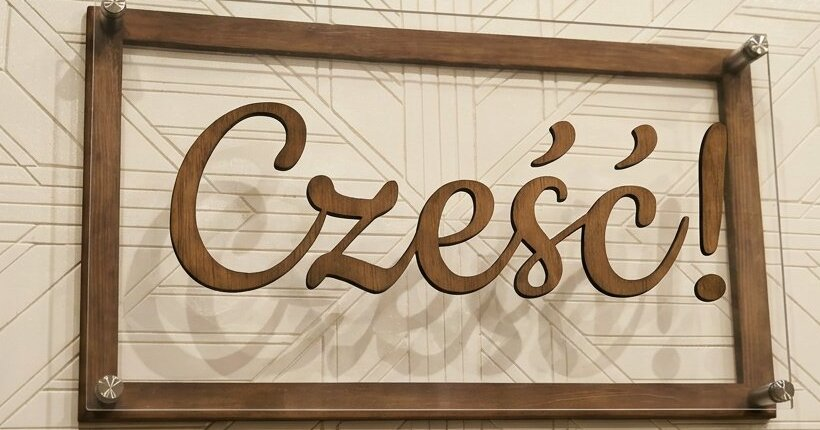
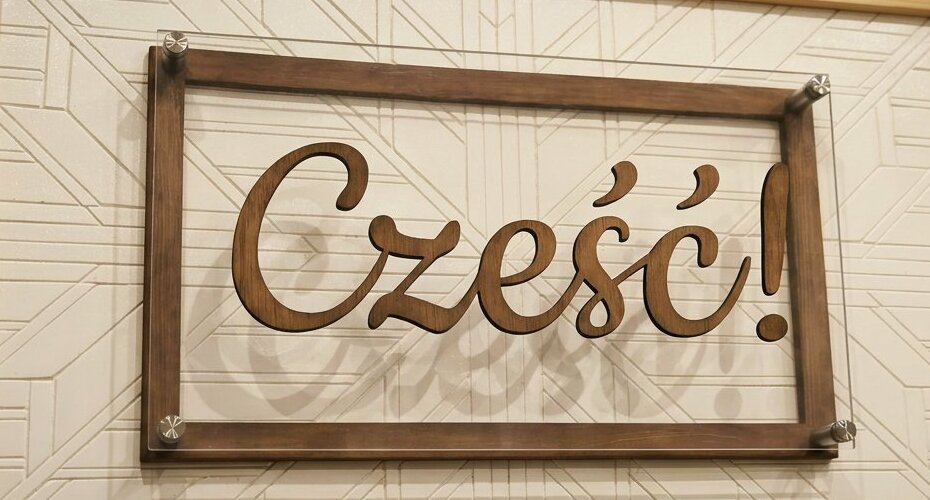
Hero: pełna rama i plexi, mniejsze ujęcie, gradient za ramą
Cześć + brąz + słupki ostre. Frez i krawędzie schodzą w krem.

diff --git a/docs/home-hero.css b/docs/home-hero.css
@@ -42,8 +42,8 @@ header.nav{background:#1A4731;border-bottom:0;color:#E8D9B8}
 }
 .hero-photo{
   grid-column:2 / 5;position:relative;
-  /* wygenerowane Cześć bez sosny / palców / lamp; napis na osi kol. 3 */
-  background:#FAF8F5 url('assets/hero-czesc.jpg') 50% 50% / cover no-repeat;
+  /* pomniejszone: cała brązowa rama + plexi + słupki; Cześć na osi kol. 3 */
+  background:#FAF8F5 url('assets/hero-czesc.jpg') 50% 50% / 74% auto no-repeat;
 }
 .hero-photo::before{
   content:"";position:absolute;inset:0;pointer-events:none;
@@ -51,15 +51,14 @@ header.nav{background:#1A4731;border-bottom:0;color:#E8D9B8}
 }
 .hero-photo::after{
   content:"";position:absolute;inset:0;pointer-events:none;
-  /* okno na całe Cześć; frez znika w krem ze wszystkich stron; lewo → kol. 1 */
+  /* gradient dopiero ZA ramą i plexi — frez w krem, napis i rama ostre */
   background:
-    linear-gradient(90deg, #FAF8F5 0%, rgba(250,248,245,.65) 12%, transparent 22%),
-    linear-gradient(90deg, transparent 78%, rgba(250,248,245,.55) 88%, #FAF8F5 100%),
-    linear-gradient(180deg, #FAF8F5 0%, transparent 16%, transparent 84%, #FAF8F5 100%),
-    radial-gradient(ellipse 52% 58% at 50% 50%,
-      transparent 0%, transparent 46%,
-      rgba(250,248,245,.28) 68%,
-      #FAF8F5 100%);
+    linear-gradient(90deg, #FAF8F5 0%, rgba(250,248,245,.55) 10%, transparent 20%),
+    radial-gradient(ellipse 64% 72% at 50% 50%,
+      transparent 0%,
+      transparent 62%,
+      rgba(250,248,245,.35) 78%,
+      #FAF8F5 92%);
 }
 .hero .eyebrow{color:#6B4530;margin-bottom:10px}
 .hero .eyebrow::before{background:#6B4530}

diff --git a/etap-2/www/home-hero.css b/etap-2/www/home-hero.css
@@ -42,8 +42,8 @@ header.nav{background:#1A4731;border-bottom:0;color:#E8D9B8}
 }
 .hero-photo{
   grid-column:2 / 5;position:relative;
-  /* wygenerowane Cześć bez sosny / palców / lamp; napis na osi kol. 3 */
-  background:#FAF8F5 url('assets/hero-czesc.jpg') 50% 50% / cover no-repeat;
+  /* pomniejszone: cała brązowa rama + plexi + słupki; Cześć na osi kol. 3 */
+  background:#FAF8F5 url('assets/hero-czesc.jpg') 50% 50% / 74% auto no-repeat;
 }
 .hero-photo::before{
   content:"";position:absolute;inset:0;pointer-events:none;
@@ -51,15 +51,14 @@ header.nav{background:#1A4731;border-bottom:0;color:#E8D9B8}
 }
 .hero-photo::after{
   content:"";position:absolute;inset:0;pointer-events:none;
-  /* okno na całe Cześć; frez znika w krem ze wszystkich stron; lewo → kol. 1 */
+  /* gradient dopiero ZA ramą i plexi — frez w krem, napis i rama ostre */
   background:
-    linear-gradient(90deg, #FAF8F5 0%, rgba(250,248,245,.65) 12%, transparent 22%),
-    linear-gradient(90deg, transparent 78%, rgba(250,248,245,.55) 88%, #FAF8F5 100%),
-    linear-gradient(180deg, #FAF8F5 0%, transparent 16%, transparent 84%, #FAF8F5 100%),
-    radial-gradient(ellipse 52% 58% at 50% 50%,
-      transparent 0%, transparent 46%,
-      rgba(250,248,245,.28) 68%,
-      #FAF8F5 100%);
+    linear-gradient(90deg, #FAF8F5 0%, rgba(250,248,245,.55) 10%, transparent 20%),
+    radial-gradient(ellipse 64% 72% at 50% 50%,
+      transparent 0%,
+      transparent 62%,
+      rgba(250,248,245,.35) 78%,
+      #FAF8F5 92%);
 }
 .hero .eyebrow{color:#6B4530;margin-bottom:10px}
 .hero .eyebrow::before{background:#6B4530}
